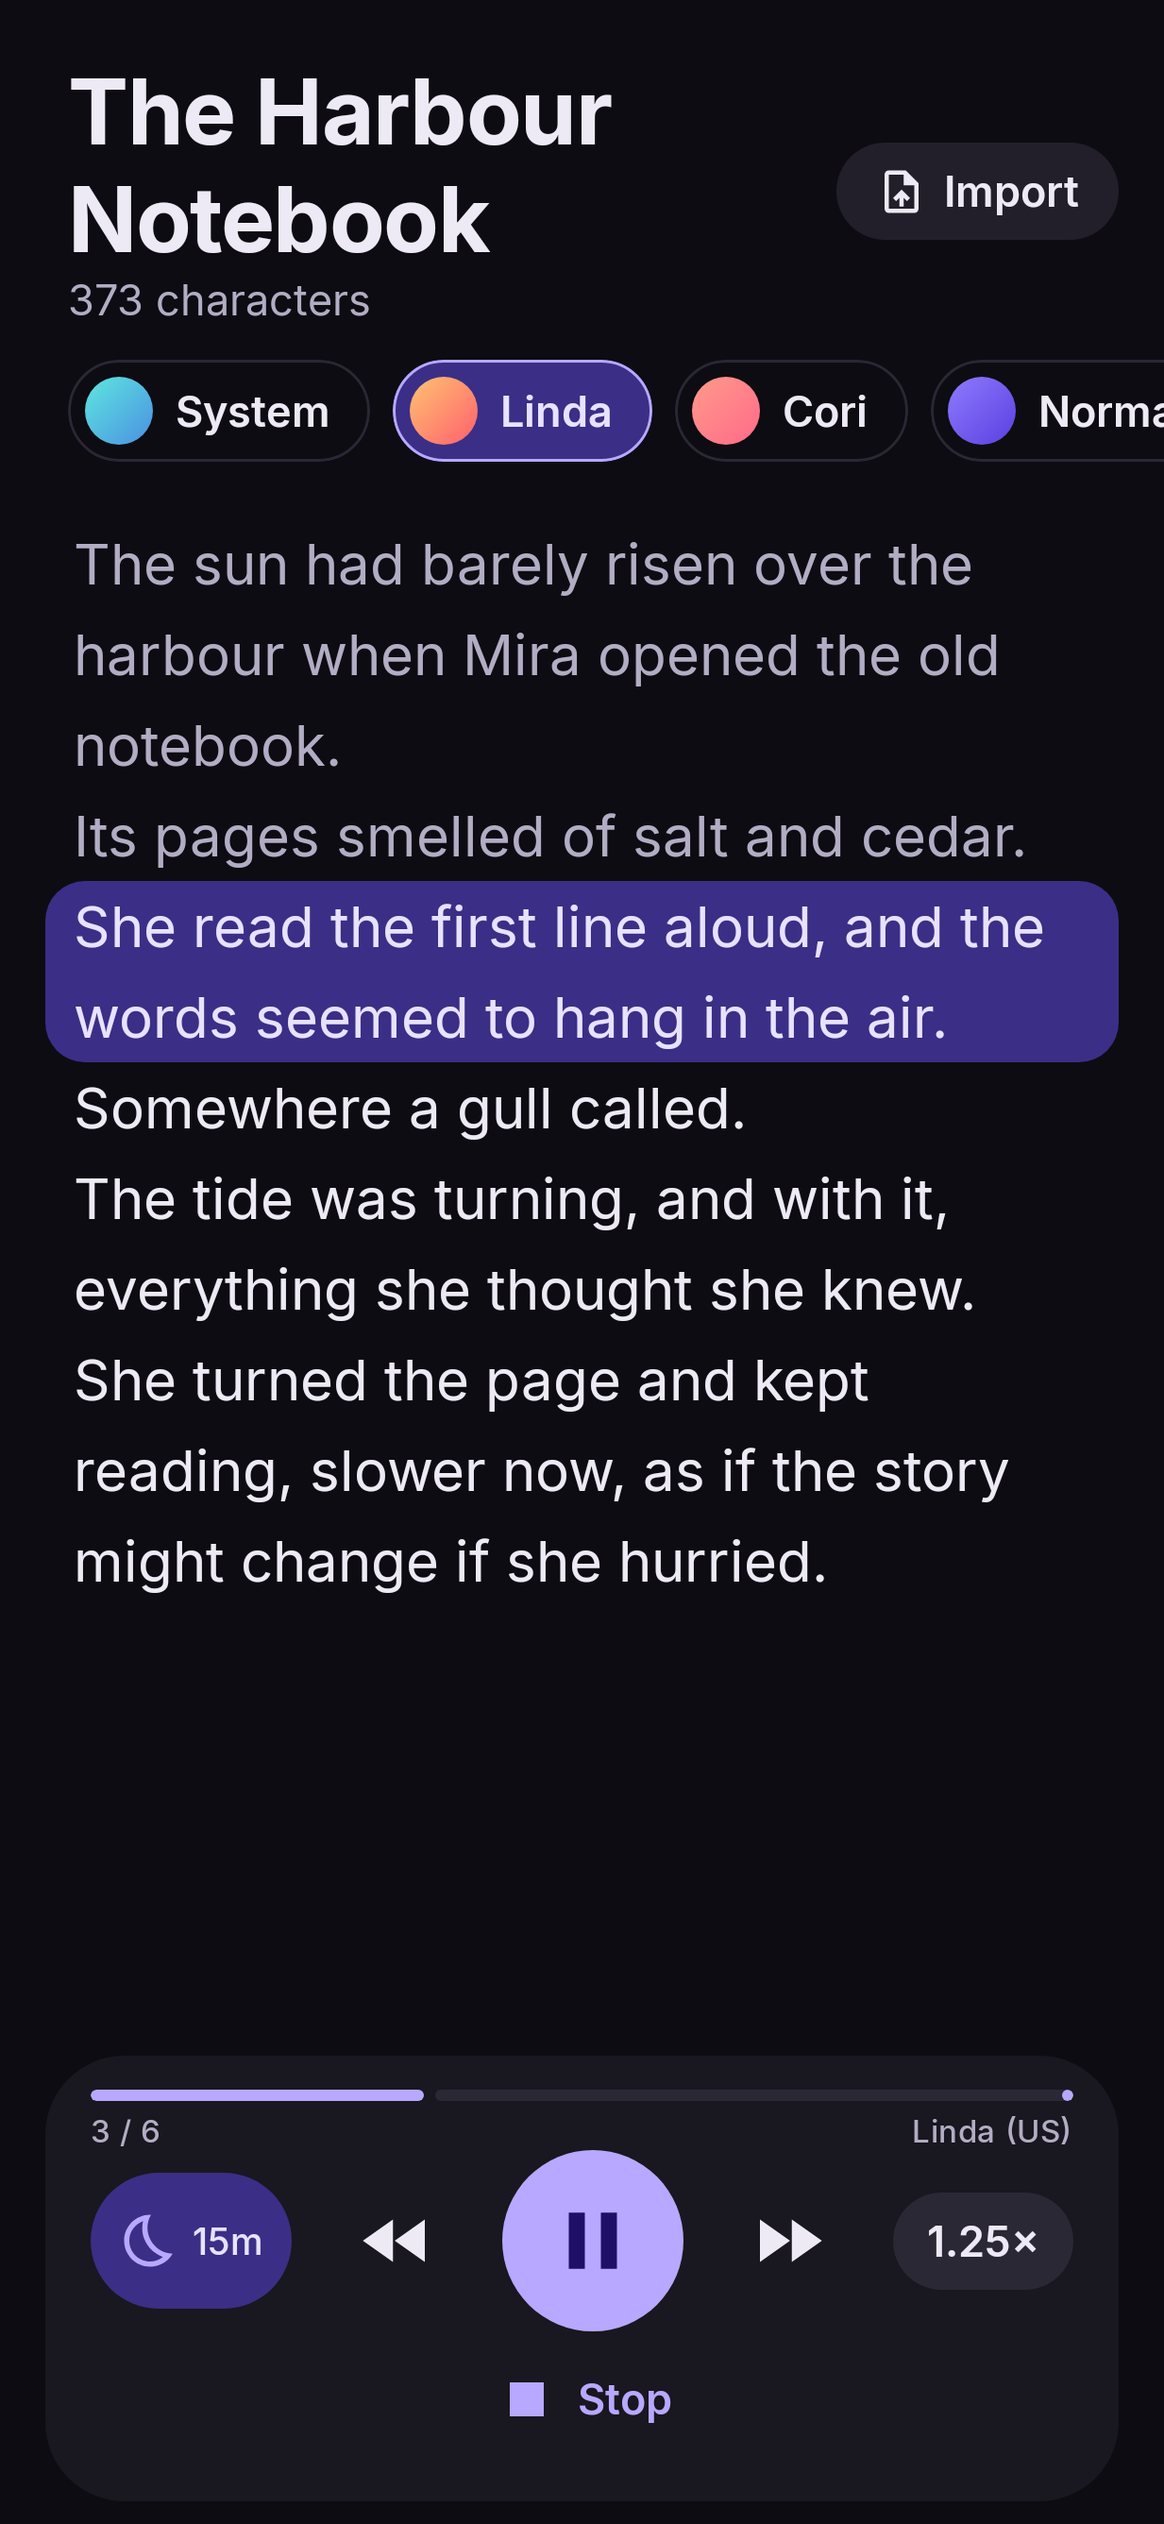
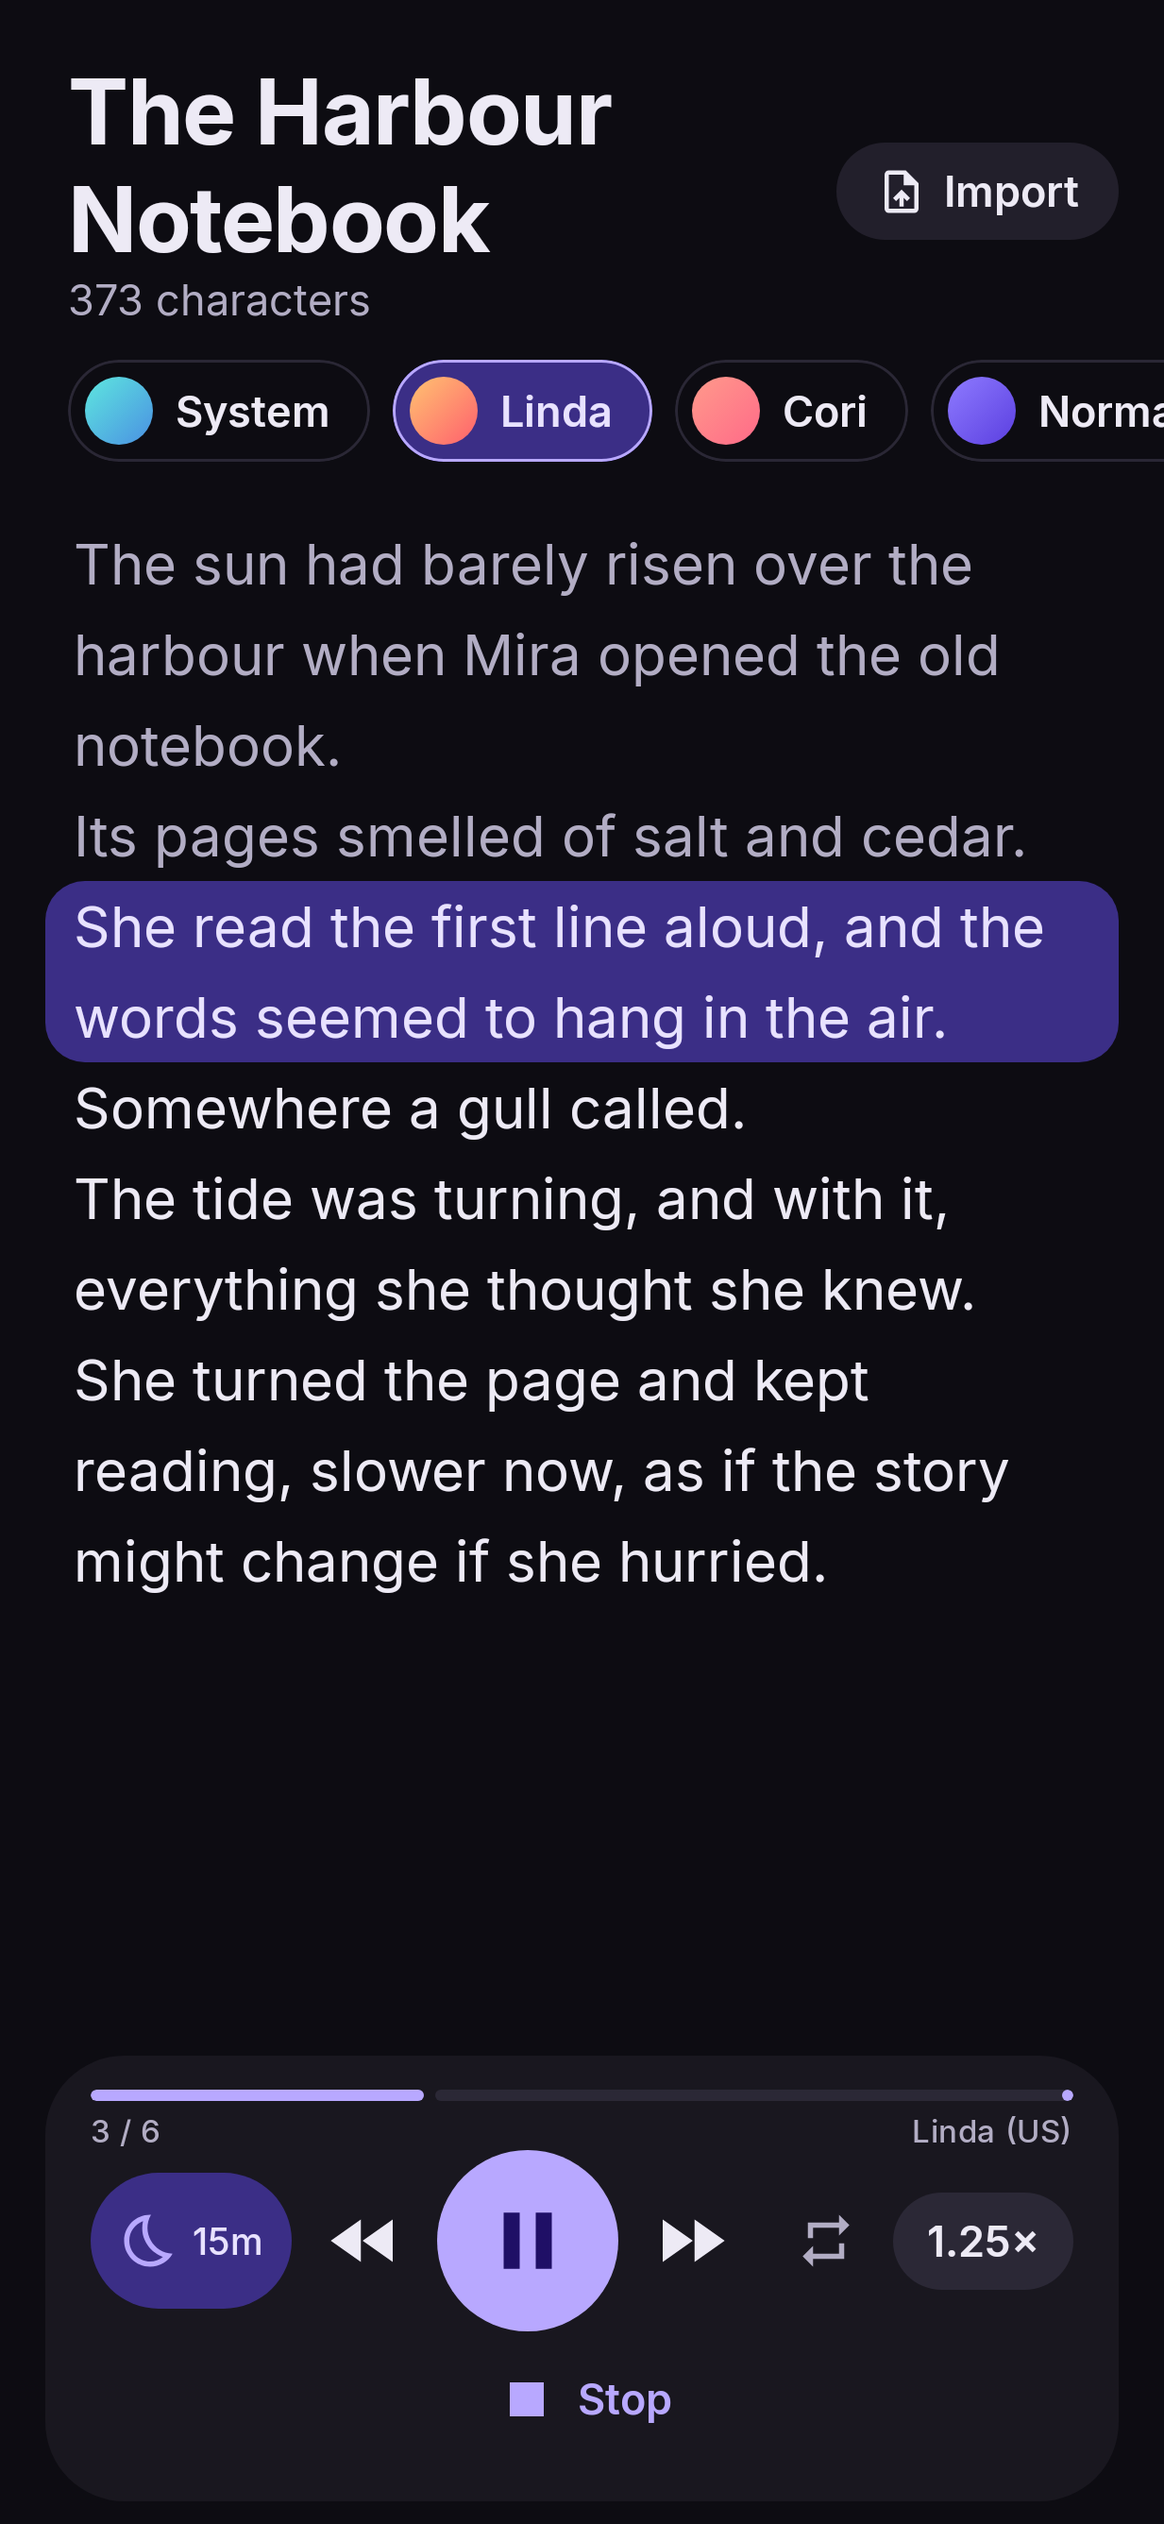
1.2.4: repeat button (off / repeat document / repeat paragraph) on the player, persisted, exposed on media session; tests

Changed region(s): [[0.339, 0.8384, 0.6164, 0.9315], [0.6472, 0.8694, 0.7397, 0.9005], [0.2774, 0.8694, 0.3082, 0.9005]]

diff --git a/app/src/main/java/com/serenvox/app/tts/SpeechPlayer.kt b/app/src/main/java/com/serenvox/app/tts/SpeechPlayer.kt
@@ -31,6 +31,25 @@ import kotlin.coroutines.coroutineContext
 
 enum class Status { IDLE, PREPARING, PLAYING, PAUSED }
 
+/** Repeat behaviour when a sentence or the document finishes. */
+enum class RepeatMode {
+    OFF, ALL, ONE;
+
+    /** Next mode in the UI cycle: Off -> Repeat document -> Repeat paragraph -> Off. */
+    fun next(): RepeatMode = when (this) { OFF -> ALL; ALL -> ONE; ONE -> OFF }
+
+    /** Index to speak after [i] of [size] chunks, or null when playback should end. */
+    fun nextIndex(i: Int, size: Int): Int? = when (this) {
+        ONE -> i
+        ALL -> if (i + 1 < size) i + 1 else 0
+        OFF -> if (i + 1 < size) i + 1 else null
+    }
+
+    companion object {
+        fun parse(v: String?): RepeatMode = entries.firstOrNull { it.name == v } ?: OFF
+    }
+}
+
 data class PlayerState(
     val status: Status = Status.IDLE,
     val chunks: List<String> = emptyList(),
@@ -109,6 +128,24 @@ class SpeechPlayer internal constructor(
     data class Args(val voiceId: String, val speed: Float, val pitch: Float, val speaker: Int)
     @Volatile private var lastArgs: Args? = null
 
+    @Volatile private var repeat = RepeatMode.OFF
+    /** Set when the repeat mode changed while paused: resume restarts so the new mode applies. */
+    @Volatile private var restartOnResume = false
+    private val _repeatMode = MutableStateFlow(RepeatMode.OFF)
+    val repeatMode: StateFlow<RepeatMode> = _repeatMode
+
+    /** Changes the repeat mode; an active session restarts at the current sentence so queued audio follows it. */
+    fun setRepeatMode(mode: RepeatMode) {
+        if (repeat == mode) return
+        repeat = mode; _repeatMode.value = mode
+        val s = _state.value; val a = lastArgs ?: return
+        when (s.status) {
+            Status.PLAYING, Status.PREPARING -> start(s.chunks, a, s.index)
+            Status.PAUSED -> restartOnResume = true
+            Status.IDLE -> {}
+        }
+    }
+
     private val _sleepEndsAt = MutableStateFlow<Long?>(null)
     /** Wall-clock millis when the sleep timer pauses playback, or null when off. */
     val sleepEndsAt: StateFlow<Long?> = _sleepEndsAt
@@ -141,6 +178,7 @@ class SpeechPlayer internal constructor(
     private fun start(chunks: List<String>, args: Args, from: Int) {
         if (chunks.isEmpty()) return
         lastArgs = args
+        restartOnResume = false
         val start = from.coerceIn(0, chunks.lastIndex)
         val g = gen.incrementAndGet()
         val name = if (neural.isAvailable(args.voiceId)) neural.displayName(args.voiceId) else "System voice"
@@ -203,7 +241,7 @@ class SpeechPlayer internal constructor(
         if (s.status != Status.PAUSED) return
         val a = lastArgs ?: return
         val k = sink
-        if (k != null && !systemActive && job?.isActive == true) {
+        if (k != null && !systemActive && job?.isActive == true && !restartOnResume) {
             paused = false; k.play()
             _state.update { it.copy(status = Status.PLAYING) }
         } else start(s.chunks, a, s.index)
@@ -238,11 +276,13 @@ class SpeechPlayer internal constructor(
             if (!paused) t.play()
             val queue = Channel<Pair<Int, FloatArray>>(capacity = 2)
             val producer = launch(synthDispatcher) {
-                for (i in from until chunks.size) {
+                var i: Int? = from
+                while (i != null) {
                     ensureActive()
                     val samples = synth.generate(chunks[i], a.speed)
                     ensureActive()
                     queue.send(i to samples)
+                    i = repeat.nextIndex(i, chunks.size)
                 }
                 queue.close()
             }
@@ -297,10 +337,19 @@ class SpeechPlayer internal constructor(
         systemActive = true
         tts.configure(a.speed, a.pitch,
             onStart = { id -> UtteranceId.parse(id)?.let { (ug, i) -> if (ug == g) upd(g) { it.copy(status = Status.PLAYING, index = i) } } },
-            onDone = { id -> UtteranceId.parse(id)?.let { (ug, i) -> if (ug == g && i == chunks.lastIndex) upd(g) { it.copy(status = Status.IDLE, index = it.chunks.size) } } },
+            onDone = { id -> UtteranceId.parse(id)?.let { (ug, i) ->
+                if (ug != g || gen.get() != g) return@let
+                when (repeat) {
+                    // Queue is spoken one paragraph (ONE) or one pass (ALL/OFF) at a time; refill when it drains.
+                    RepeatMode.ONE -> tts.speak(chunks[i], UtteranceId.of(g, i), flush = false)
+                    RepeatMode.ALL -> if (i == chunks.lastIndex) for (j in chunks.indices) tts.speak(chunks[j], UtteranceId.of(g, j), flush = false)
+                    RepeatMode.OFF -> if (i == chunks.lastIndex) upd(g) { it.copy(status = Status.IDLE, index = it.chunks.size) }
+                }
+            } },
             onError = { id -> UtteranceId.parse(id)?.let { (ug, _) -> if (ug == g) upd(g) { it.copy(status = Status.IDLE, error = "Speech error") } } },
         )
-        for (i in from until chunks.size) tts.speak(chunks[i], UtteranceId.of(g, i), flush = i == from)
+        if (repeat == RepeatMode.ONE) tts.speak(chunks[from], UtteranceId.of(g, from), flush = true)
+        else for (i in from until chunks.size) tts.speak(chunks[i], UtteranceId.of(g, i), flush = i == from)
     }
 
     /** Renders text to a WAV file with the neural voice. Calls [onProgress] with 0..1. */

diff --git a/app/src/main/java/com/serenvox/app/ui/Screens.kt b/app/src/main/java/com/serenvox/app/ui/Screens.kt
@@ -36,6 +36,8 @@ import androidx.compose.ui.semantics.semantics
 import com.serenvox.app.tts.VoiceCatalog
 import com.serenvox.app.tts.KokoroPack
 import androidx.compose.material.icons.Icons
+import androidx.compose.material.icons.filled.Repeat
+import androidx.compose.material.icons.filled.RepeatOne
 import androidx.compose.material.icons.automirrored.filled.Article
 import androidx.compose.material.icons.automirrored.filled.MenuBook
 import androidx.compose.material.icons.filled.*
@@ -180,9 +182,29 @@ private fun ReaderView(player: PlayerState, onSeek: (Int) -> Unit) {
 // ------------------------------------------------------------------ Player
 
 @Composable
+fun RepeatButton(mode: com.serenvox.app.tts.RepeatMode, onClick: () -> Unit) {
+    val c = MaterialTheme.colorScheme
+    val on = mode != com.serenvox.app.tts.RepeatMode.OFF
+    val label = when (mode) {
+        com.serenvox.app.tts.RepeatMode.OFF -> "Repeat off"
+        com.serenvox.app.tts.RepeatMode.ALL -> "Repeat document"
+        com.serenvox.app.tts.RepeatMode.ONE -> "Repeat paragraph"
+    }
+    Box(Modifier.size(44.dp).clip(CircleShape)
+        .then(if (on) Modifier.background(c.primaryContainer) else Modifier)
+        .clickable(onClickLabel = "Change repeat mode", onClick = onClick)
+        .semantics { contentDescription = label },
+        contentAlignment = Alignment.Center) {
+        Icon(if (mode == com.serenvox.app.tts.RepeatMode.ONE) Icons.Default.RepeatOne else Icons.Default.Repeat, null,
+            Modifier.size(22.dp), tint = if (on) c.primary else c.onSurfaceVariant)
+    }
+}
+
+@Composable
 fun PlayerBar(
     player: PlayerState, speed: Float, sleepMinutesLeft: Int?, enabled: Boolean,
     onPlayPause: () -> Unit, onBack: () -> Unit, onForward: () -> Unit, onSpeed: () -> Unit, onSleep: () -> Unit, onStop: () -> Unit,
+    repeatMode: com.serenvox.app.tts.RepeatMode = com.serenvox.app.tts.RepeatMode.OFF, onRepeat: () -> Unit = {},
 ) {
     val c = MaterialTheme.colorScheme
     val progress by animateFloatAsState(player.progress, label = "p")
@@ -214,6 +236,7 @@ fun PlayerBar(
                 else Icon(if (playing) Icons.Default.Pause else Icons.Default.PlayArrow, if (playing) "Pause" else "Play", Modifier.size(34.dp))
             }
             IconButton(onClick = onForward, enabled = player.status != Status.IDLE) { Icon(Icons.Default.FastForward, "Next sentence", Modifier.size(30.dp)) }
+            RepeatButton(repeatMode, onRepeat)
             Box(Modifier.clip(CircleShape).background(c.surfaceContainerHighest).clickable(onClick = onSpeed).padding(horizontal = 12.dp, vertical = 8.dp)) {
                 Text("${fmt(speed)}×", style = MaterialTheme.typography.labelLarge)
             }

diff --git a/app/src/main/java/com/serenvox/app/tts/PlaybackService.kt b/app/src/main/java/com/serenvox/app/tts/PlaybackService.kt
@@ -40,9 +40,18 @@ class PlaybackService : Service() {
                 override fun onPlay() = player.resume()
                 override fun onPause() = player.pause()
                 override fun onStop() = player.stop()
+                override fun onSetRepeatMode(repeatMode: Int) {
+                    val m = when (repeatMode) {
+                        PlaybackStateCompat.REPEAT_MODE_ONE -> RepeatMode.ONE
+                        PlaybackStateCompat.REPEAT_MODE_ALL, PlaybackStateCompat.REPEAT_MODE_GROUP -> RepeatMode.ALL
+                        else -> RepeatMode.OFF
+                    }
+                    (application as SerenvoxApp).prefs.setRepeatMode(m); player.setRepeatMode(m)
+                }
             })
             isActive = true
         }
+        scope.launch { player.repeatMode.collect { session.setRepeatMode(it.toSession()) } }
         ServiceCompat.startForeground(this, NOTIF_ID, build(player.state.value),
             if (android.os.Build.VERSION.SDK_INT >= 29) ServiceInfo.FOREGROUND_SERVICE_TYPE_MEDIA_PLAYBACK else 0)
         scope.launch {
@@ -71,7 +80,7 @@ class PlaybackService : Service() {
         val st = if (s.status == Status.PAUSED) PlaybackStateCompat.STATE_PAUSED else PlaybackStateCompat.STATE_PLAYING
         session.setPlaybackState(PlaybackStateCompat.Builder()
             .setActions(PlaybackStateCompat.ACTION_PLAY or PlaybackStateCompat.ACTION_PAUSE or
-                PlaybackStateCompat.ACTION_PLAY_PAUSE or PlaybackStateCompat.ACTION_STOP)
+                PlaybackStateCompat.ACTION_PLAY_PAUSE or PlaybackStateCompat.ACTION_STOP or PlaybackStateCompat.ACTION_SET_REPEAT_MODE)
             .setState(st, PlaybackStateCompat.PLAYBACK_POSITION_UNKNOWN, 1f).build())
         session.setMetadata(MediaMetadataCompat.Builder()
             .putString(MediaMetadataCompat.METADATA_KEY_TITLE, s.chunks.getOrNull(s.index) ?: "")
@@ -109,4 +118,10 @@ class PlaybackService : Service() {
         const val ACTION_STOP = "stop"
         fun start(ctx: Context) = ContextCompat.startForegroundService(ctx, Intent(ctx, PlaybackService::class.java))
     }
+}
+
+internal fun RepeatMode.toSession() = when (this) {
+    RepeatMode.OFF -> PlaybackStateCompat.REPEAT_MODE_NONE
+    RepeatMode.ALL -> PlaybackStateCompat.REPEAT_MODE_ALL
+    RepeatMode.ONE -> PlaybackStateCompat.REPEAT_MODE_ONE
 }

diff --git a/app/src/test/java/com/serenvox/app/tts/SpeechPlayerSessionTest.kt b/app/src/test/java/com/serenvox/app/tts/SpeechPlayerSessionTest.kt
@@ -182,4 +182,45 @@ class SpeechPlayerSessionTest {
         assertEquals(7L to 12, UtteranceId.parse(UtteranceId.of(7, 12)))
         assertEquals(null, UtteranceId.parse("12"))
     }
+
+    @Test fun repeatModeCyclesAndPicksNextIndex() {
+        assertEquals(RepeatMode.ALL, RepeatMode.OFF.next())
+        assertEquals(RepeatMode.ONE, RepeatMode.ALL.next())
+        assertEquals(RepeatMode.OFF, RepeatMode.ONE.next())
+        assertEquals(null, RepeatMode.OFF.nextIndex(4, 5)); assertEquals(3, RepeatMode.OFF.nextIndex(2, 5))
+        assertEquals(0, RepeatMode.ALL.nextIndex(4, 5)); assertEquals(3, RepeatMode.ALL.nextIndex(2, 5))
+        assertEquals(2, RepeatMode.ONE.nextIndex(2, 5))
+        assertEquals(RepeatMode.OFF, RepeatMode.parse(null)); assertEquals(RepeatMode.ONE, RepeatMode.parse("ONE"))
+    }
+
+    @Test fun repeatDocumentRestartsFromBeginning() {
+        player.setRepeatMode(RepeatMode.ALL)
+        player.playChunks(chunks.take(3), args(1), 1)
+        val seen = HashSet<Int>()
+        val end = System.currentTimeMillis() + 1200 // > 2 passes of 3 sentences
+        while (System.currentTimeMillis() < end) { current?.audible()?.let { seen.add(it % 1000) }; Thread.sleep(5) }
+        assertTrue("stopped instead of looping", player.state.value.status != Status.IDLE)
+        assertTrue("never wrapped to sentence 0: $seen", 0 in seen)
+        assertInvariants()
+    }
+
+    @Test fun repeatParagraphLoopsCurrentSentence() {
+        player.setRepeatMode(RepeatMode.ONE)
+        player.playChunks(chunks, args(1), 5)
+        Thread.sleep(150)
+        val (_, total) = watch(500, 1) { it == 5 }
+        assertTrue("nothing played", total > 20)
+        assertEquals(5, player.state.value.index)
+        assertInvariants()
+    }
+
+    @Test fun sleepTimerStillPausesWhileRepeating() {
+        player.setRepeatMode(RepeatMode.ONE)
+        player.playChunks(chunks, args(1), 0)
+        Thread.sleep(200)
+        player.pause() // what the sleep timer does when it fires
+        Thread.sleep(100)
+        assertEquals(Status.PAUSED, player.state.value.status)
+        assertEquals(0, activeSinks.get())
+    }
 }

diff --git a/app/src/main/java/com/serenvox/app/ui/AppRoot.kt b/app/src/main/java/com/serenvox/app/ui/AppRoot.kt
@@ -103,6 +103,7 @@ private fun MainShell(activity: MainActivity, app: SerenvoxApp) {
     val adsReady by activity.ads.ready.collectAsStateWithLifecycle()
     val library by app.library.items.collectAsStateWithLifecycle()
     val sleepEnd by player.sleepEndsAt.collectAsStateWithLifecycle()
+    val repeatMode by player.repeatMode.collectAsStateWithLifecycle()
     val scope = rememberCoroutineScope()
 
     var tab by rememberSaveable { mutableStateOf(Tab.READ) }
@@ -219,7 +220,8 @@ private fun MainShell(activity: MainActivity, app: SerenvoxApp) {
                                 onSeek = { player.seekTo(it) })
                         }
                         PlayerBar(state, speed, sleepLeft, text.isNotBlank() && !importing, ::playPause,
-                            { player.skip(-1) }, { player.skip(1) }, { speedSheet = true }, { sleepSheet = true }, { player.stop() })
+                            { player.skip(-1) }, { player.skip(1) }, { speedSheet = true }, { sleepSheet = true }, { player.stop() },
+                            repeatMode = repeatMode, onRepeat = { repeatMode.next().let { prefs.setRepeatMode(it); player.setRepeatMode(it) } })
                     }
                     Tab.VOICES -> {
                       val samples = remember { com.serenvox.app.tts.SamplePlayer(activity) }

diff --git a/app/src/main/java/com/serenvox/app/Prefs.kt b/app/src/main/java/com/serenvox/app/Prefs.kt
@@ -25,6 +25,10 @@ class Prefs(context: Context) {
     private val _speaker = MutableStateFlow(sp.getInt("speaker", 0))
     val speaker: StateFlow<Int> = _speaker
 
+    private val _repeat = MutableStateFlow(com.serenvox.app.tts.RepeatMode.parse(sp.getString("repeatMode", null)))
+    val repeatMode: StateFlow<com.serenvox.app.tts.RepeatMode> = _repeat
+    fun setRepeatMode(m: com.serenvox.app.tts.RepeatMode) { _repeat.value = m; sp.edit().putString("repeatMode", m.name).apply() }
+
     private val _dynamic = MutableStateFlow(sp.getBoolean("dynamicColor", false))
     val dynamicColor: StateFlow<Boolean> = _dynamic
     private val _onboarded = MutableStateFlow(sp.getBoolean("onboarded", false))

diff --git a/app/src/main/java/com/serenvox/app/SerenvoxApp.kt b/app/src/main/java/com/serenvox/app/SerenvoxApp.kt
@@ -22,6 +22,7 @@ class SerenvoxApp : Application() {
         prefs = Prefs(this)
         voices = VoiceManager(this)
         player = SpeechPlayer(this, voices)
+        player.setRepeatMode(prefs.repeatMode.value)
         library = LibraryRepo(this)
         importer = DocumentImporter(this)
         billing = BillingManager(this).also { it.connect() }

diff --git a/README.md b/README.md
@@ -4,7 +4,7 @@
 Serenvox reads any text aloud with natural neural voices that run **entirely on the device** —
 no cloud, no account, works offline after a one-time voice download.
 
-Features: type/paste/import .txt, "Share to" / text-selection receiver, play/pause/stop, speed & pitch,
+Features: type/paste/import .txt, "Share to" / text-selection receiver, play/pause/stop, repeat (document or paragraph), speed & pitch,
 voice manager (download/preview/delete), sentence highlighting, long-text chunking, background playback
 with media notification, WAV export & share, dark mode / Material You. Falls back to Android's system TTS.
 Free with ads (AdMob banner + rare capped interstitial, UMP consent); one-time `remove_ads` purchase.
